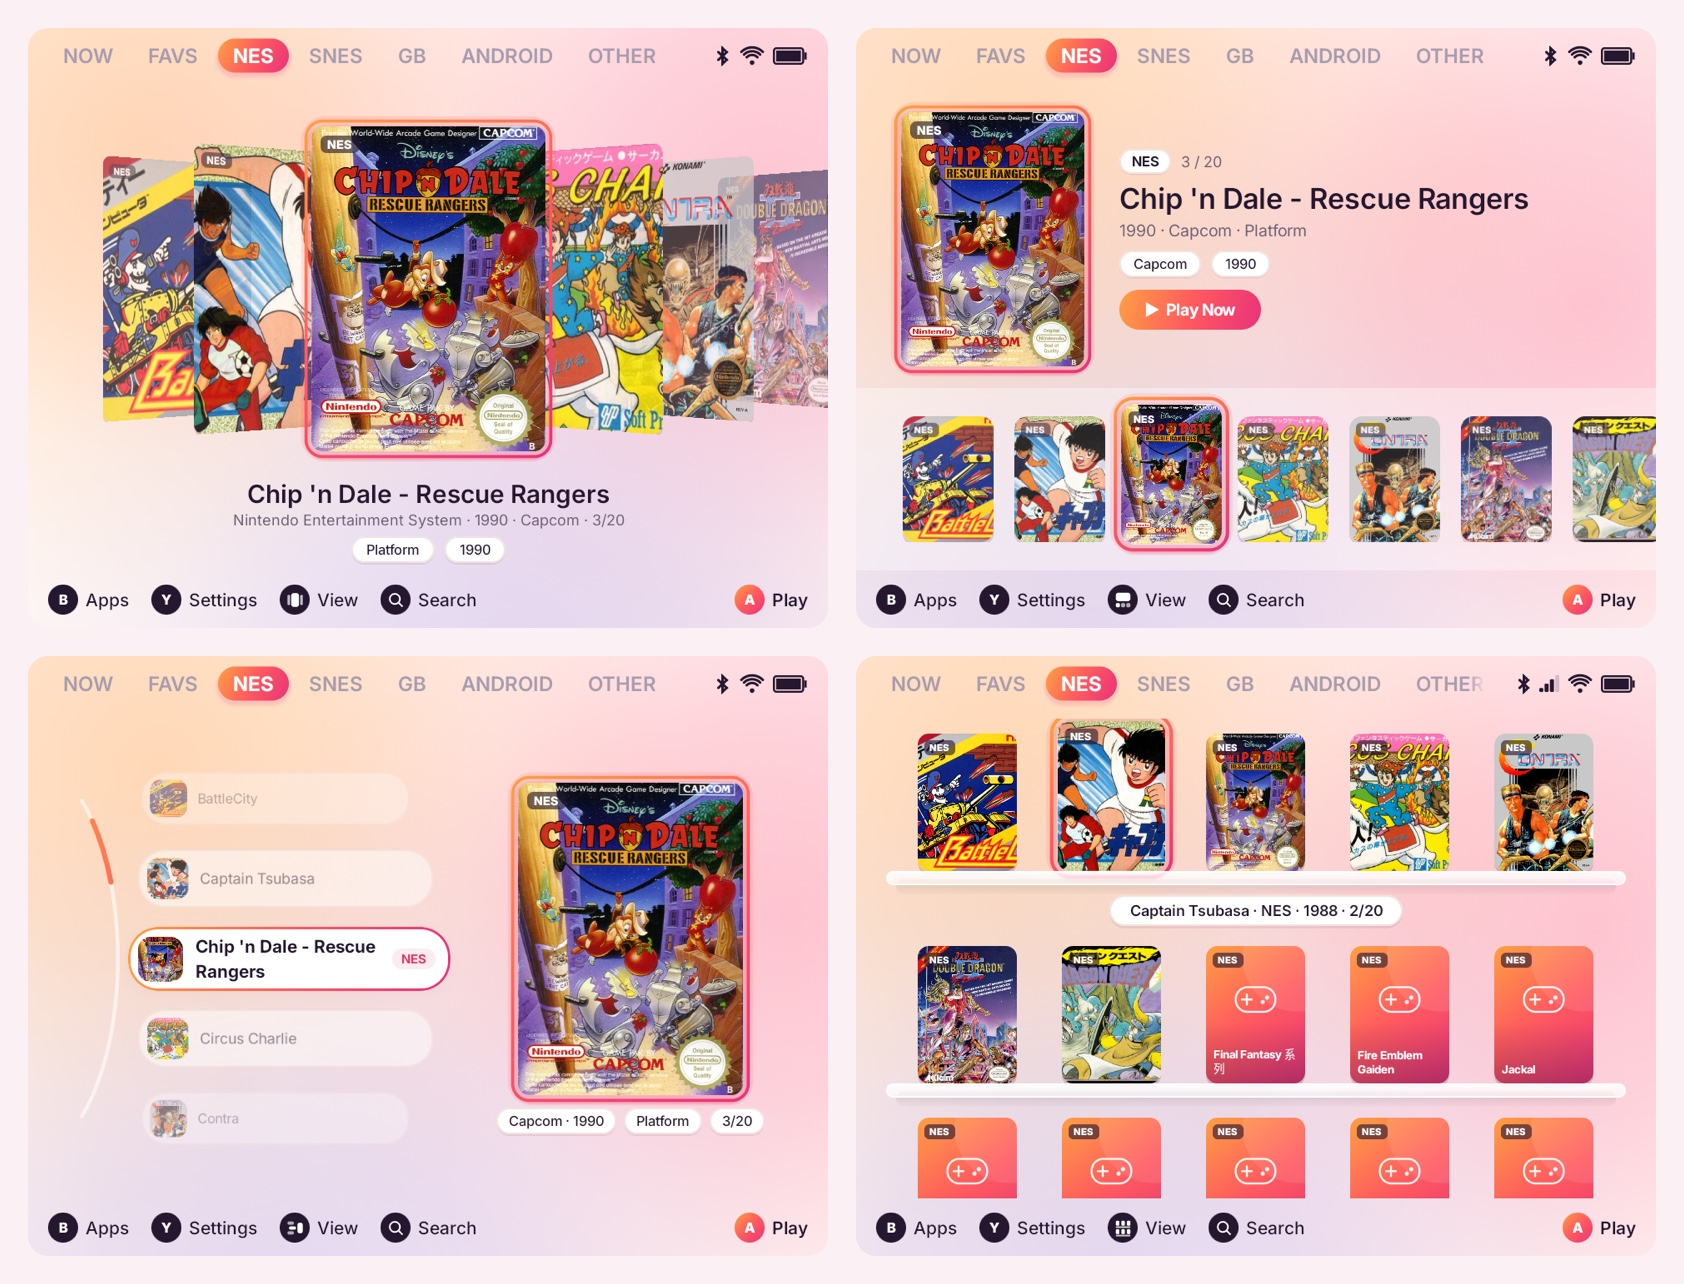
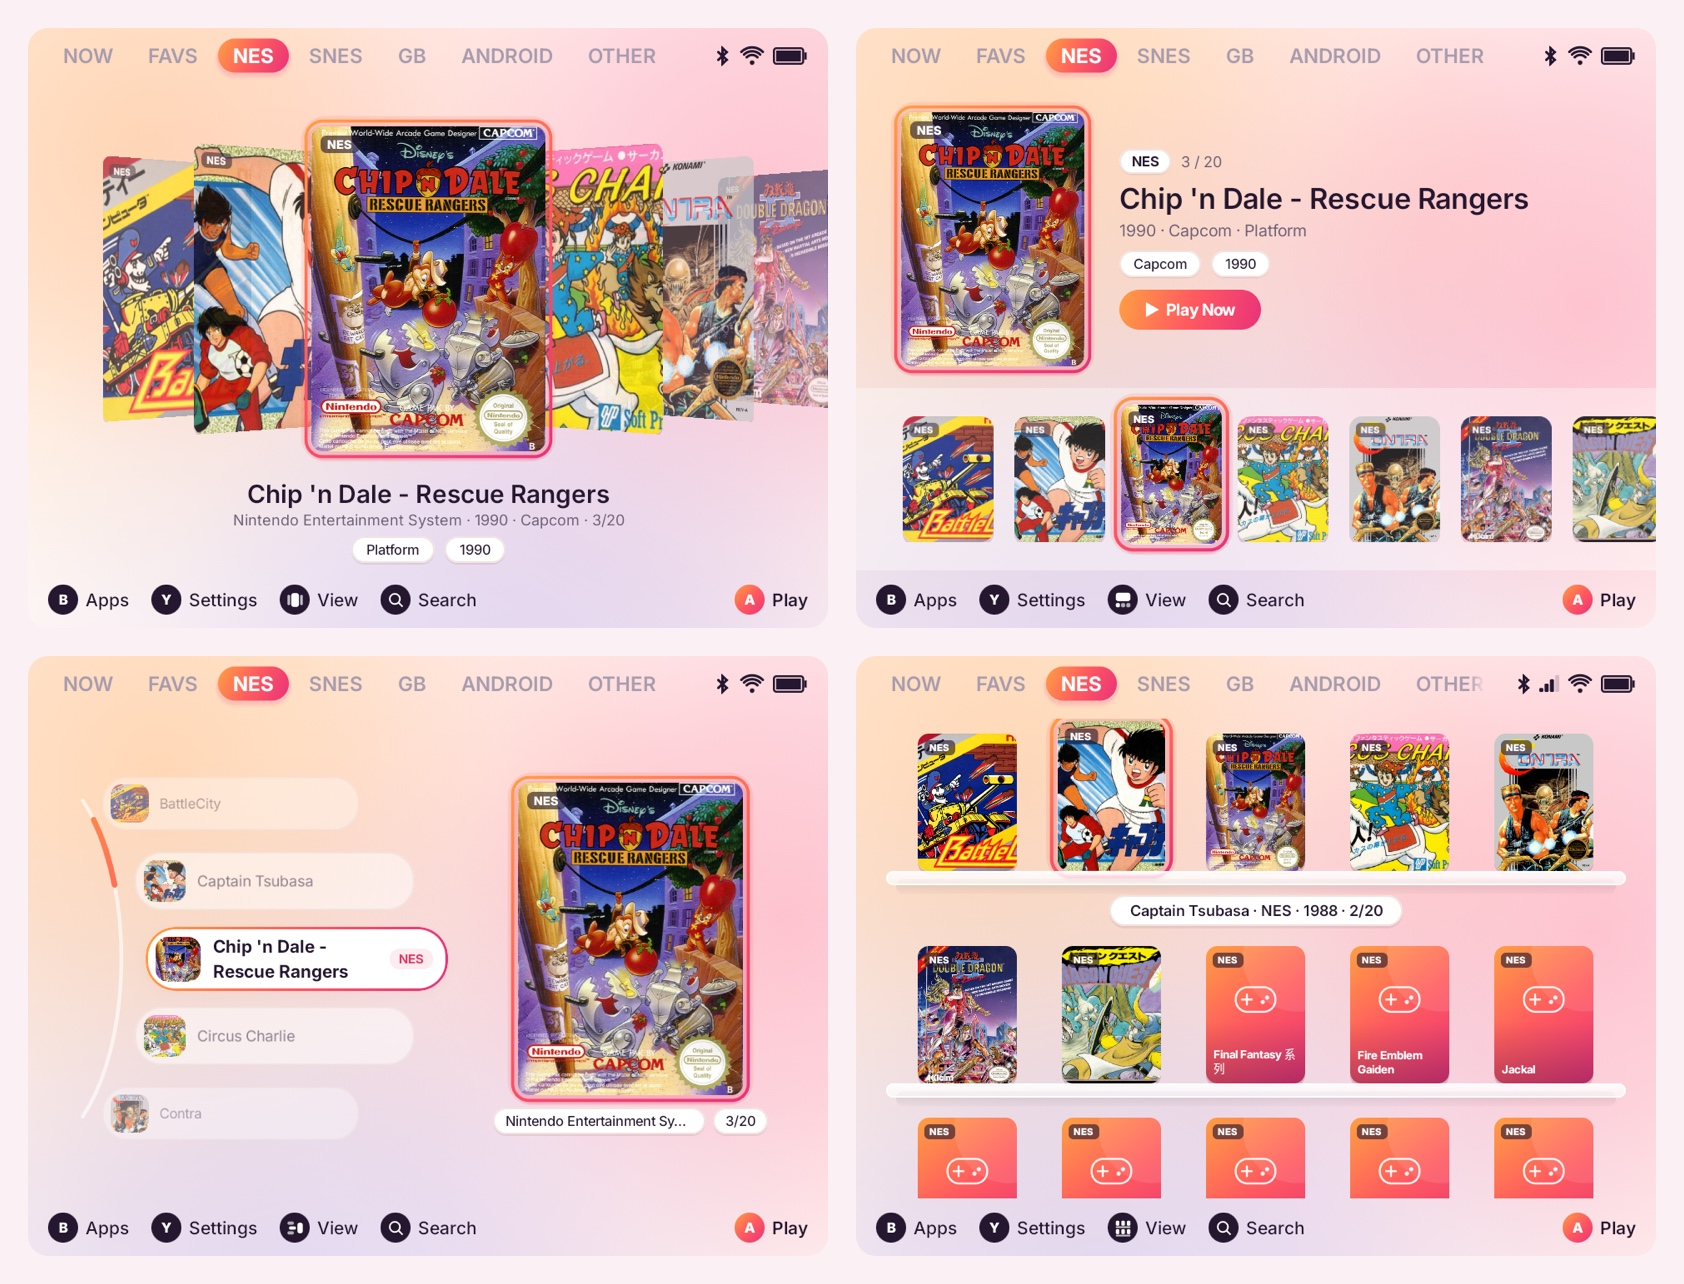
fix(wheel): use left-center TransformOrigin and deeper quadratic C-arc curve

Changed region(s): [[0.0618, 0.5919, 0.2162, 0.9034], [0.3088, 0.8411, 0.4014, 0.9034], [0.247, 0.7165, 0.2779, 0.7788]]

diff --git a/app/src/main/java/com/pocketdeck/launcher/ui/home/WheelView.kt b/app/src/main/java/com/pocketdeck/launcher/ui/home/WheelView.kt
@@ -41,6 +41,7 @@ import androidx.compose.ui.geometry.Size
 import androidx.compose.ui.graphics.Brush
 import androidx.compose.ui.graphics.Color
 import androidx.compose.ui.graphics.StrokeCap
+import androidx.compose.ui.graphics.TransformOrigin
 import androidx.compose.ui.graphics.drawscope.Stroke
 import androidx.compose.ui.graphics.graphicsLayer
 import androidx.compose.ui.input.pointer.pointerInput
@@ -68,7 +69,6 @@ import com.pocketdeck.launcher.ui.theme.cardSurface
 import kotlinx.coroutines.launch
 import kotlin.math.abs
 import kotlin.math.ceil
-import kotlin.math.cos
 import kotlin.math.floor
 import kotlin.math.roundToInt
 
@@ -151,27 +151,27 @@ fun WheelView(
                 .fillMaxHeight()
                 .clipToBounds()
                 .drawBehind {
-                    // 绘制柔和左弧轨与当前进度弧段
+                    // 绘制与胶囊左缘同心的 C 形弧轨与当前进度弧段
                     val trackW = size.width * 0.44f
-                    val arcRect = Size(trackW, size.height * 0.84f)
-                    val topLeft = Offset(-trackW * 0.66f, size.height * 0.08f)
+                    val arcRect = Size(trackW, size.height * 0.82f)
+                    val topLeft = Offset(-trackW * 0.64f, size.height * 0.09f)
                     val trackColor = if (palette.isDark) {
                         Color.White.copy(alpha = 0.14f)
                     } else {
-                        Color.White.copy(alpha = 0.58f)
+                        Color.White.copy(alpha = 0.62f)
                     }
                     drawArc(
                         color = trackColor,
-                        startAngle = -54f,
-                        sweepAngle = 108f,
+                        startAngle = -56f,
+                        sweepAngle = 112f,
                         useCenter = false,
                         topLeft = topLeft,
                         size = arcRect,
                         style = Stroke(width = 3.dp.toPx(), cap = StrokeCap.Round),
                     )
                     val ratio = if (games.size <= 1) 0.5f else (animatedFocus.value / games.lastIndex.toFloat()).coerceIn(0f, 1f)
-                    val thumbSweep = 22f
-                    val thumbStart = -54f + (108f - thumbSweep) * ratio
+                    val thumbSweep = 24f
+                    val thumbStart = -56f + (112f - thumbSweep) * ratio
                     drawArc(
                         brush = Brush.verticalGradient(listOf(palette.brandStart, palette.brandMid, palette.brandEnd)),
                         startAngle = thumbStart,
@@ -179,7 +179,7 @@ fun WheelView(
                         useCenter = false,
                         topLeft = topLeft,
                         size = arcRect,
-                        style = Stroke(width = 4.dp.toPx(), cap = StrokeCap.Round),
+                        style = Stroke(width = 4.5.dp.toPx(), cap = StrokeCap.Round),
                     )
                 }
                 .pointerInput(Unit) {
@@ -222,9 +222,10 @@ fun WheelView(
                 },
             contentAlignment = Alignment.CenterStart,
         ) {
-            val stepYPx = with(density) { (maxHeight * 0.205f).coerceIn(48.dp, 64.dp).toPx() }
-            val arcDepthPx = with(density) { 26.dp.toPx() }
-            val pillMaxW = (maxWidth - 62.dp).coerceIn(170.dp, 300.dp)
+            val stepYPx = with(density) { (maxHeight * 0.20f).coerceIn(48.dp, 62.dp).toPx() }
+            val arcDepthPx = with(density) { 44.dp.toPx() }
+            val baseLeftPx = with(density) { 26.dp.toPx() }
+            val pillMaxW = (maxWidth - 78.dp).coerceIn(168.dp, 282.dp)
             val focusBorderBrush = remember(palette.brandStart, palette.brandMid, palette.brandEnd) {
                 Brush.linearGradient(listOf(palette.brandStart, palette.brandMid, palette.brandEnd))
             }
@@ -246,10 +247,13 @@ fun WheelView(
                     val absD = abs(d)
                     val isSelected = idx == safeFocus
 
-                    val curveX = (cos((d * 0.48f).coerceIn(-1.45f, 1.45f)) * arcDepthPx) + with(density) { 30.dp.toPx() }
+                    // 使用左中锚点 + 二次弧度偏移，避免缩放抵消左缘弧线，还原明显 C 形转盘曲率
+                    val normD = (absD / 2.25f).coerceIn(0f, 1.15f)
+                    val bulge = (1f - normD * normD).coerceAtLeast(0f)
+                    val curveX = baseLeftPx + bulge * arcDepthPx
                     val transY = d * stepYPx
-                    val scale = (1f - absD * 0.085f).coerceAtLeast(0.76f)
-                    val itemAlpha = (1f - absD * 0.28f).coerceIn(0f, 1f)
+                    val scale = (1f - absD * 0.075f).coerceAtLeast(0.80f)
+                    val itemAlpha = (1f - absD * 0.24f).coerceIn(0.18f, 1f)
                     val z = 50f - absD * 10f
 
                     val pillShape = RoundedCornerShape(24.dp)
@@ -258,6 +262,7 @@ fun WheelView(
                             .zIndex(z)
                             .width(pillMaxW)
                             .graphicsLayer {
+                                transformOrigin = TransformOrigin(0f, 0.5f)
                                 translationX = curveX
                                 translationY = transY
                                 scaleX = scale
